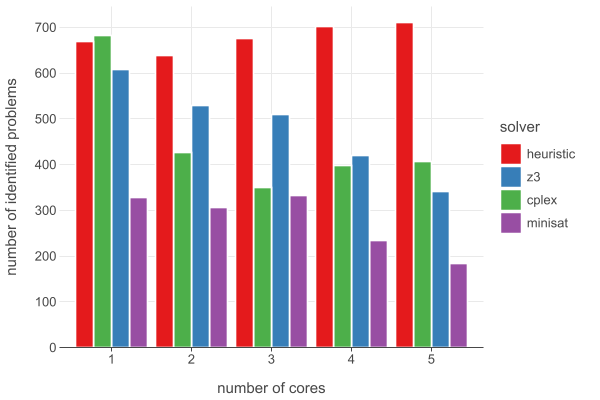
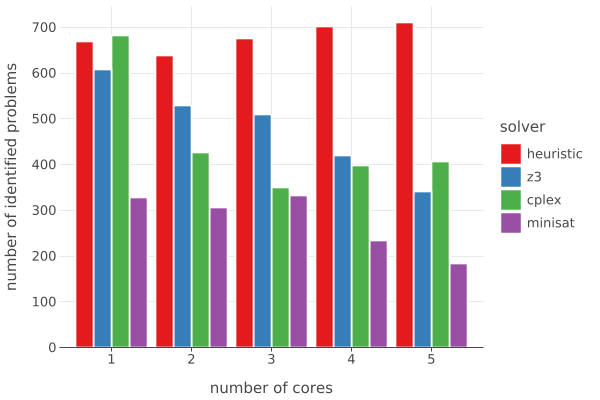
Fix histogram ordering

diff --git a/src/main/kotlin/experiments/feasibility/FeasibilityTest.kt b/src/main/kotlin/experiments/feasibility/FeasibilityTest.kt
@@ -2,13 +2,14 @@ package experiments.feasibility
 
 class FeasibilityTest(
 	val name: String,
-	val arguments: Array<String>
+	val arguments: Array<String>,
+	val ordinal: Int
 ) {
 	companion object {
-		val HEURISTIC = FeasibilityTest("heuristic", arrayOf("--feasibility-exact"))
-		val Z3_MODEL1 = FeasibilityTest("z3", arrayOf("--feasibility-z3", "1"))
-		val Z3_MODEL2 = FeasibilityTest("z3-model2", arrayOf("--feasibility-z3", "2"))
-		val CPLEX = FeasibilityTest("cplex", arrayOf("--feasibility-cplex"))
-		val MINISAT = FeasibilityTest("minisat", arrayOf("--feasibility-minisat"))
+		val HEURISTIC = FeasibilityTest("heuristic", arrayOf("--feasibility-exact"), 0)
+		val Z3_MODEL1 = FeasibilityTest("z3", arrayOf("--feasibility-z3", "1"), 1)
+		val Z3_MODEL2 = FeasibilityTest("z3-model2", arrayOf("--feasibility-z3", "2"), 2)
+		val CPLEX = FeasibilityTest("cplex", arrayOf("--feasibility-cplex"), 3)
+		val MINISAT = FeasibilityTest("minisat", arrayOf("--feasibility-minisat"), 4)
 	}
 }

diff --git a/src/main/kotlin/experiments/feasibility/FeasibilityQuery.kt b/src/main/kotlin/experiments/feasibility/FeasibilityQuery.kt
@@ -429,7 +429,7 @@ fun main() {
 //	)
 
 	fun coresClassification(file: String, condition: (FeasibilitySolverResult) -> Boolean) {
-		val groupResults = results.flatMap { it.getAll().values }.filter(condition).sortedBy { it.config.numCores }
+		val groupResults = results.flatMap { it.getAll().values }.filter(condition).sortedBy { it.config.numCores }.sortedBy { it.solver.ordinal }
 		val data = mapOf(
 			"cores" to groupResults.map { it.config.numCores.toString() },
 			"solver" to groupResults.map { it.solver.name }
